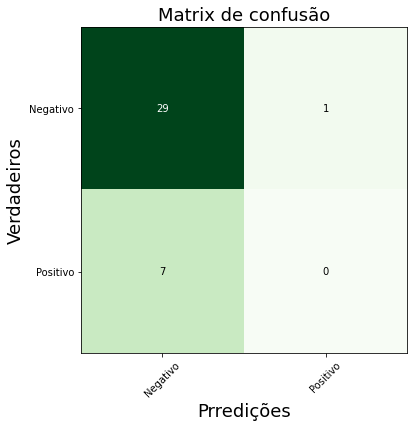
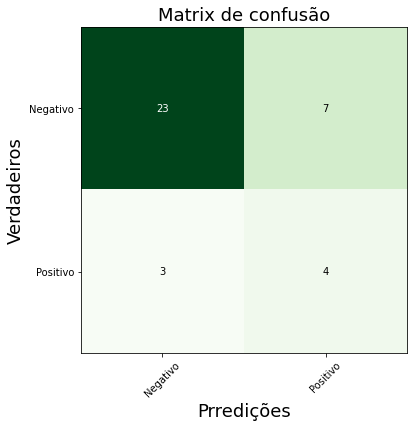
Adicionando SVM com grid search e CV

Changed region(s): [[0.1739, 0.0607, 0.9855, 0.8505], [0.7826, 0.6075, 0.8116, 0.6379], [0.3768, 0.243, 0.4058, 0.2734]]

diff --git a/modelos_module.py b/modelos_module.py
@@ -3,7 +3,9 @@ import scipy as sp
 import tensorflow as tf
 
 from sklearn.svm import SVC
+from sklearn.model_selection import GridSearchCV
 from tensorflow.keras.layers import Dense
+
 
 
 #from sklearn.preprocessing import StandartScaler
@@ -12,21 +14,38 @@ from tensorflow.keras.layers import Dense
 
 class Modelos:
 
-    def __init__(self) -> None:
-        pass
+    def __init__(self,X_train,y_train):
+        self.X_train = X_train
+        self.y_train = y_train
+        
 
-    def SVM(self,X_train,y_train):
+    def SVM(self):
         clf_svm = SVC(random_state = 42)
-        clf_svm.fit(X_train.to_numpy(),y_train.to_numpy())
+        clf_svm.fit(self.X_train.to_numpy(),self.y_train.to_numpy())
         return clf_svm
         
-    def NN(self,X_train,y_train):
+    def SVM_GRID(self):
+        param_grid =  {
+                'C':[0.5,1,10,100],
+                'gamma':['scale',1,0.1,0.01,0.001,0.0001],
+                'kernel':['rbf']
+            }
+        
+
+        svc = SVC()
+        clf = GridSearchCV(estimator = svc,param_grid = param_grid,
+                          scoring = 'accuracy',n_jobs = 5, cv = 5,verbose = False)
+        clf.fit(self.X_train,self.y_train)
+
+        return clf
+
+    def NN(self):
         model = tf.keras.models.Sequential()
         model.add(Dense(10,activation = "relu",name = "layer1"))
         model.add(Dense(5,activation = "relu"))
         model.add(Dense(1,activation = 'softplus'))
         opt = tf.keras.optimizers.SGD(lr = 0.001)
         model.compile(optimizer = opt,loss = 'binary_crossentropy',metrics=  ['accuracy'])
-        model.fit(X_train.to_numpy().astype(float),y_train.to_numpy().astype(int),epochs = 20,verbose= 0)
+        model.fit(self.X_train.to_numpy().astype(float),self.y_train.to_numpy().astype(int),epochs = 20,verbose= 0)
 
         return model

diff --git a/README.md b/README.md
@@ -12,6 +12,10 @@ from sklearn.metrics import plot_confusion_matrix
 
 ```
 
+    The autoreload extension is already loaded. To reload it, use:
+      %reload_ext autoreload
+    
+
 
 ```python
 warnings.filterwarnings("ignore")
@@ -303,7 +307,7 @@ X_test.head()
 
 
 ```python
-modelos = Modelos()
+modelos = Modelos(X_train = X_train,y_train = y_train)
 ```
 
 TREINANDO MODELO SVM
@@ -333,7 +337,7 @@ plot_confusion_matrix(clf_svm,X_test,y_teste,display_labels=['Negativo','Positiv
 
 
 
-    <sklearn.metrics._plot.confusion_matrix.ConfusionMatrixDisplay at 0x1fc8d137c18>
+    <sklearn.metrics._plot.confusion_matrix.ConfusionMatrixDisplay at 0x26223420cf8>
 
 
 
@@ -350,14 +354,6 @@ TREINANDO MODELO NN
 nn = Modelos.NN(Modelos,X_train,y_train)
 ```
 
-    WARNING:tensorflow:From C:\Users\sodre\anaconda3\envs\TCC\lib\site-packages\tensorflow_core\python\ops\resource_variable_ops.py:1630: calling BaseResourceVariable.__init__ (from tensorflow.python.ops.resource_variable_ops) with constraint is deprecated and will be removed in a future version.
-    Instructions for updating:
-    If using Keras pass *_constraint arguments to layers.
-    WARNING:tensorflow:From C:\Users\sodre\anaconda3\envs\TCC\lib\site-packages\tensorflow_core\python\ops\math_grad.py:1424: where (from tensorflow.python.ops.array_ops) is deprecated and will be removed in a future version.
-    Instructions for updating:
-    Use tf.where in 2.0, which has the same broadcast rule as np.where
-    
-
 
 ```python
 y_predict = nn.predict(X_test.to_numpy())
@@ -369,16 +365,17 @@ y_predict_1 =  np.where(y_predict  > 0.5, 1, 0)
 print(y_predict[0:5])
 ```
 
-    [[0.4399853 ]
-     [0.44380516]
-     [0.44583258]
-     [0.49196762]
-     [0.45100433]]
+    [[0.4831077 ]
+     [0.500621  ]
+     [0.49625027]
+     [0.5115009 ]
+     [0.47208115]]
     
 
 
 ```python
 Tratamento.confusion(Tratamento,y_teste.astype(int),y_predict_1)
+
 ```
 
 
@@ -386,3 +383,8 @@ Tratamento.confusion(Tratamento,y_teste.astype(int),y_predict_1)
 ![png](README_files/README_20_0.png)
     
 
+
+
+```python
+
+```
